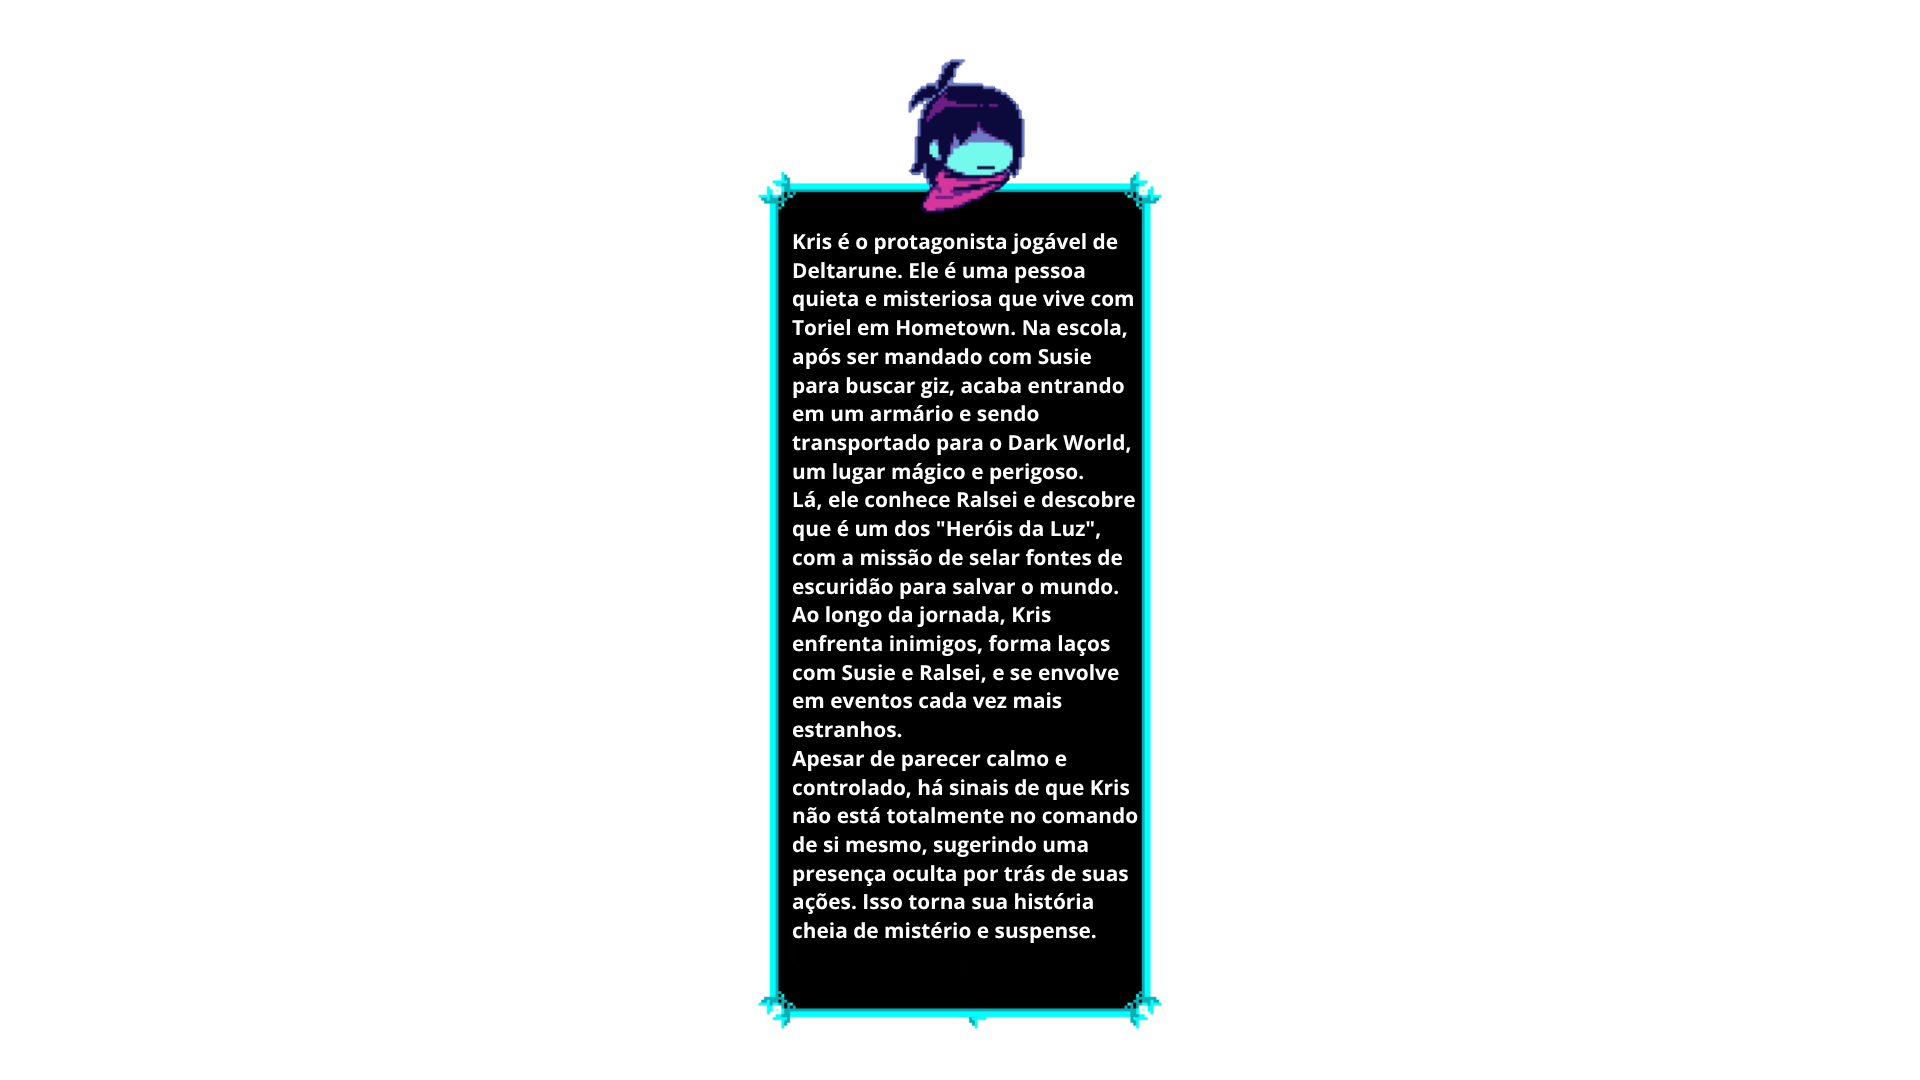
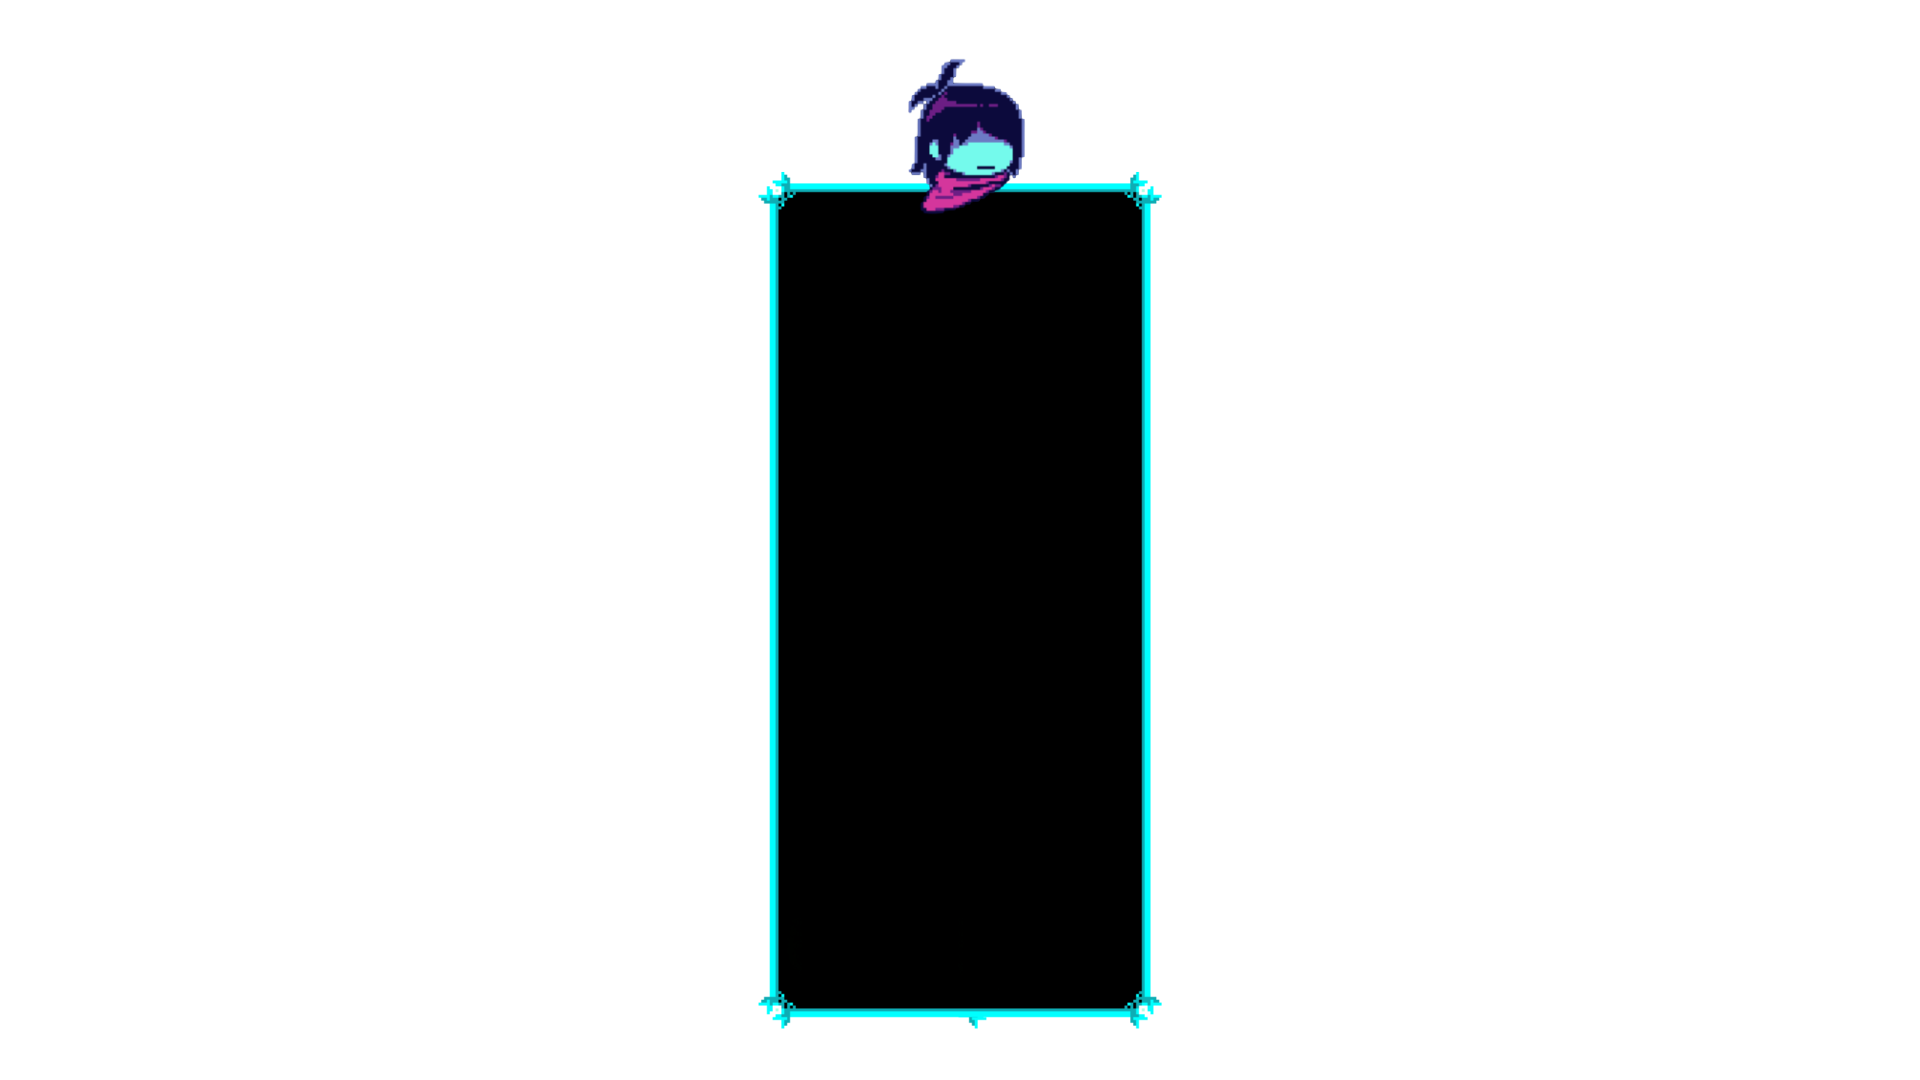
adicionando nova imagem menor para o kris

Changed region(s): [[0.4062, 0.2139, 0.5938, 0.8861]]

diff --git a/kris.html b/kris.html
@@ -12,9 +12,9 @@
         <header>
             <nav>
                 <a href="./index.html" id="home">
-                    <source media="(max-width):" srcset="">
+                    
                     <img src="./src/assets/logo.png" alt="">
-
+                    
                 </a>
                 <ul class="header-font">
                 <li><a href="./kris.html" id="kris">KRIS</a></li>
@@ -36,8 +36,10 @@
        
 
         <div class="personagem">
+            <picture>
+                <source media="(max-width:800px)" srcset="./src/assets/pqkris.png">
             <img src="./src/assets/kris.png" alt="">
-            
+             </picture>
         </div>
 
         
